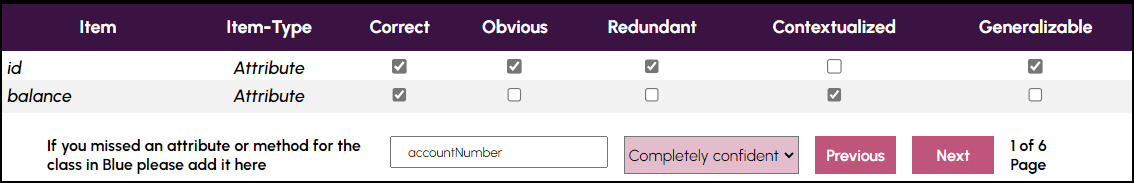
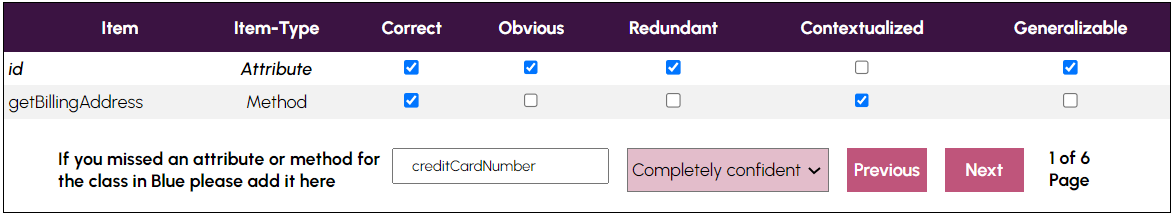
update example

diff --git a/frontend/src/pages/Example.js b/frontend/src/pages/Example.js
@@ -31,15 +31,15 @@ function Example() {
             The figure on the left shows a class diagram under development. The class in <span className="markTarget">blue</span>  is the class under construction. The table below shows possible attributes/methods for the class.
             <br /><br />
             The goal is to fill the table according to the following criteria:
-            <li>Correct: The attribute/method is suitable for the class in blue.</li>
+            <li>Correct: The attribute/method is suitable for the class in blue</li>
             <li>Obvious: The attribute/method you could have easily proposed yourself</li>
             <li>Redundant: The attribute/method exists or is similar to an existing one in the diagram</li>
             <li>Contextualized: The attribute/method belongs to the diagram domain</li>
             <li>Generalizable: The attribute/method is also applicable to other classes of the diagram</li>
             <br />
-            For instance, for the class <span className="markTarget">Customer</span>, the attribute <span className="markItem">id</span> is Correct since is suitable and is Obvious because you could easily propose yourself. <span className="markItem">Id</span> can be Redundant as it exists in the SuperClass Person, is not Contextualized as it is not particular to the domain and is Generalizable as it can be applied to the class Order. On the other hand, the attribute <span className="markItem">balance</span> is Correct since is adequate for the class and is Contextualized because it belongs to the diagram domain.
+            For instance, for the class <span className="markTarget">Customer</span>, the attribute <span className="markItem">id</span> is Correct since is suitable and is Obvious because you could easily propose yourself. <span className="markItem">Id</span> is Redundant as it exists in the SuperClass Person, is not Contextualized as it is not particular to the domain and is Generalizable as it can be applied to the class Order. On the other hand, the method <span className="markItem">getBillingAddress</span> is Correct since is adequate for the class and is Contextualized because it belongs to the diagram domain.
             <br /><br />
-            Afterwords, if you missed an attribute or method relevant to the class <span className="markTarget">Customer</span> you can optionally write it in the text box. For instance,for this case <span className="markItem">accountNumber</span>. Finally, indicate the level of confidence you felt in selecting the attributes and methods for the class in blue.
+            Afterwords, if you missed an attribute or method relevant to the class <span className="markTarget">Customer</span> you can optionally write it in the text box. For instance, for this case <span className="markItem">creditCardNumber</span>. Finally, indicate the level of confidence you felt in selecting the attributes and methods for the class in blue.
           </p>
         </div>
         <div className="image2">

diff --git a/frontend/src/components/Table.js b/frontend/src/components/Table.js
@@ -68,8 +68,6 @@ export default function Table({ COLUMNS, useCaseData, param }) {
     const recommendationRef = useRef();
     const confidenceRef = useRef();
 
-
-
     // We need to keep the table from resetting the pageIndex when we
     // Update data. So we can keep track of that flag with a ref.
 
@@ -108,7 +106,7 @@ export default function Table({ COLUMNS, useCaseData, param }) {
         console.log(data);
         //To publish response locally on or the server
          axios.post('http://157.230.127.240:8080/receive', {
-        //axios.post('http://localhost:8080/receive', {
+       // axios.post('http://localhost:8080/receive', {
             data, param
         })
 
